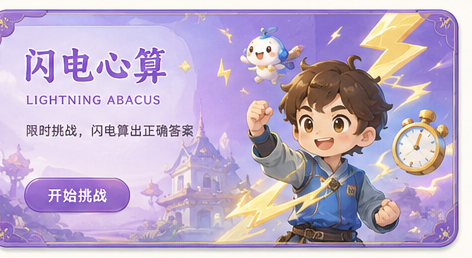
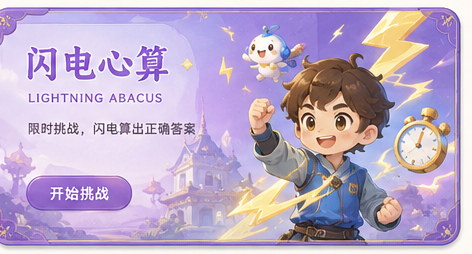
珠心算修正:闪算作答不再显示竖式 + 卡片重排/精裁 + 去顶部蒙版 + 单笔时间自定义
- 修 bug:闪算/听算作答页不再列出整道竖式(只有看算显示),闪完靠记忆作答
- 首页卡片顺序:闪电心算置顶;三张卡按精确坐标重裁(严丝合缝)
- 训练页顶栏去掉半透明蒙版,仅保留右侧登录/中英
- 单笔时间新增自定义秒数输入(0.01 步进)

diff --git a/src/components/games/AbacusGame.tsx b/src/components/games/AbacusGame.tsx
@@ -227,9 +227,9 @@ export function AbacusGame({ onFinished, onCfgChange, onViewChange, mistakeMode 
   // ================= HOME =================
   if (view === "home") {
     const MODE_CARDS: { mode: AbacusMode; img: string; label: string }[] = [
+      { mode: "flash", img: "/card-flash.png", label: "闪电心算" },
       { mode: "glance", img: "/card-kan.png", label: "看算" },
       { mode: "listen", img: "/card-ting.png", label: "听算" },
-      { mode: "flash", img: "/card-flash.png", label: "闪电心算" },
     ];
     const openModeCard = (mode: AbacusMode) => { set({ project: "addsub", mode }); setModalProject("addsub"); };
     const MORE: { id: Project; label: string; emoji: string }[] = [
@@ -291,7 +291,7 @@ export function AbacusGame({ onFinished, onCfgChange, onViewChange, mistakeMode 
 
       {phase === "answer" && round && (
         <div className="flex flex-col gap-3">
-          <AnswerPrompt round={round} />
+          <AnswerPrompt round={round} mode={cfg.mode} />
           <AnswerPad value={input} onChange={setInput} onSubmit={() => submit(input)} onGiveUp={backHome}
             canReplay={round.project === "addsub" && cfg.mode === "listen"} onReplay={() => { setStepIdx(0); setShowTerm(false); setPhase("playing"); }} />
         </div>
@@ -369,12 +369,13 @@ function TopBar({ left, right, onGiveUp }: { left: string; right?: string; onGiv
 }
 
 // ---------- 作答提示 ----------
-function AnswerPrompt({ round }: { round: Round }) {
+function AnswerPrompt({ round, mode }: { round: Round; mode: AbacusMode }) {
   if (round.project === "addsub" && round.terms) {
-    // 看算(glance)时把竖式显示出来;闪/听已揭示完毕只提示
+    // 仅「看算」把竖式显示出来;闪算/听算已逐笔揭示完毕,作答时不再显示算式(否则等于没考记忆)
+    const showStack = mode === "glance";
     return (
       <>
-        {round.exprStr && round.signs && (
+        {showStack && round.signs && (
           <div style={{ background: "#fff", border: `2px solid ${T.line}`, borderRadius: 18, padding: 16, marginBottom: 4 }}>
             <div className="flex flex-col items-end gap-0.5 font-mono-tabular" style={{ fontSize: 30, fontWeight: 800, color: T.ink }}>
               {round.terms.map((t, i) => (
@@ -386,7 +387,9 @@ function AnswerPrompt({ round }: { round: Round }) {
             </div>
           </div>
         )}
-        <div style={{ textAlign: "center", fontSize: 15, fontWeight: 800, color: T.coralD }}>🤔 算出来了吗?填答案～</div>
+        <div style={{ textAlign: "center", fontSize: 15, fontWeight: 800, color: T.coralD }}>
+          {showStack ? "🤔 答案是多少?" : "🤔 都记住了吗?填答案～"}
+        </div>
       </>
     );
   }
@@ -546,6 +549,8 @@ function AddsubParams({ cfg, set, mistakeMode, onMistakeModeChange }: {
           <Card label="单笔时间" emoji="⚡" hint="越小越快">
             <div className="flex flex-wrap items-center gap-1.5">
               {SPEED_PRESETS.map((s) => (<Pill key={s.value} on={cfg.speedMs === s.value} color={T.sun} onClick={() => set({ speedMs: s.value })}>{s.label}</Pill>))}
+              <span style={{ fontSize: 10, color: T.inkSoft }}>或</span>
+              <SecInput value={SPEED_PRESETS.some((s) => s.value === cfg.speedMs) ? null : cfg.speedMs} onCommit={(ms) => set({ speedMs: ms })} />
             </div>
           </Card>
         )}
@@ -666,5 +671,23 @@ function NumInput({ value, min, max, onCommit }: { value: number | null; min: nu
   return (
     <input inputMode="numeric" value={text} placeholder="自定" onChange={(e) => setText(e.target.value)} onBlur={(e) => commit(e.target.value)} onKeyDown={(e) => e.key === "Enter" && (e.target as HTMLInputElement).blur()}
       className="font-mono-tabular" style={{ height: 30, width: 46, borderRadius: 10, border: `2px solid ${T.line}`, background: "#fff", textAlign: "center", fontSize: 12.5, fontWeight: 800, color: T.ink, outline: "none" }} />
+  );
+}
+
+// 秒输入(0.01 步进)→ 提交毫秒。范围 0.1~5 秒。
+function SecInput({ value, onCommit }: { value: number | null; onCommit: (ms: number) => void }) {
+  const toSec = (ms: number | null) => (ms == null ? "" : String(+(ms / 1000).toFixed(2)));
+  const [text, setText] = useState(toSec(value));
+  useEffect(() => { setText(toSec(value)); }, [value]);
+  const commit = (raw: string) => {
+    const n = parseFloat(raw.replace(/[^\d.]/g, ""));
+    if (!isNaN(n)) onCommit(Math.min(5000, Math.max(100, Math.round(n * 1000))));
+  };
+  return (
+    <div className="flex items-center gap-1">
+      <input inputMode="decimal" value={text} placeholder="自定" onChange={(e) => setText(e.target.value)} onBlur={(e) => commit(e.target.value)} onKeyDown={(e) => e.key === "Enter" && (e.target as HTMLInputElement).blur()}
+        className="font-mono-tabular" style={{ height: 30, width: 50, borderRadius: 10, border: `2px solid ${T.line}`, background: "#fff", textAlign: "center", fontSize: 12.5, fontWeight: 800, color: T.ink, outline: "none" }} />
+      <span style={{ fontSize: 10.5, color: T.inkSoft, fontWeight: 700 }}>秒</span>
+    </div>
   );
 }

diff --git a/src/pages/Play.tsx b/src/pages/Play.tsx
@@ -68,7 +68,7 @@ const Play = () => {
       style={isAbacus ? { background: "linear-gradient(180deg, #BDE8FF 0%, #DDF3FF 34%, #FBF1D8 70%, #FFF6E6 100%)" } : undefined}
     >
       {isAbacus && <AbacusScene view={abacusView} />}
-      <header className={cn("sticky top-0 z-30 border-b", isAbacus ? "border-transparent bg-white/40 backdrop-blur" : "border-border bg-background/90 backdrop-blur")}>
+      <header className={cn("sticky top-0 z-30", isAbacus ? "border-b-0 bg-transparent" : "border-b border-border bg-background/90 backdrop-blur")}>
         <div className="container flex items-center justify-between py-3">
           <button
             onClick={() => navigate("/")}
